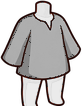
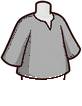
fix(walk): separate bare legs from body_base into legs_bottom slot so bare legs never peek behind armor

Changed region(s): [[0.2439, 0.6792, 0.8049, 1.0]]

diff --git a/packages/studio/src/utils/chibi-pack-loader.ts b/packages/studio/src/utils/chibi-pack-loader.ts
@@ -189,7 +189,7 @@ export async function loadChibiHDPack(basePath = '/assets/chibi-hero'): Promise<
   const shadowFrame = makeFrame('shadow_oval', { x: 0.5, y: 0.5 }, false);
   registerDualFacingPart('shadow', 'oval', '柔光椭圆投影', shadowFrame, shadowFrame, 'none');
 
-  // Body base with chibi sockets + 6-frame bare-leg walk stride
+  // Body base (upper torso/tunic/neck only — legs live cleanly in legs_bottom so bare legs NEVER peek behind armor!)
   const bodySockets: SpriteFrameRef['sockets'] = {
     neck: { x: 0, y: -86 },
     shoulder_front: { x: -24, y: -72 },
@@ -197,14 +197,9 @@ export async function loadChibiHDPack(basePath = '/assets/chibi-hero'): Promise<
     back_mount: { x: -4, y: -76 },
   };
   const bodyFront = makeFrame('body_base_front', { x: 0.5, y: 0.92 }, true, bodySockets);
-  const bodyWalkFrames = makeWalkFrames('body_base_front', { x: 0.5, y: 0.92 }, 16, 8, bodySockets);
-  registerDualFacingPart('body_base', 'chibi_body', 'Q版基础素体', bodyFront, bodyFront, 'mask_ramp', {
-    front: bodyWalkFrames,
-    back: bodyWalkFrames,
-    fps: 8,
-  });
+  registerDualFacingPart('body_base', 'chibi_body', 'Q版上身素体', bodyFront, bodyFront, 'mask_ramp');
 
-  // Legs (6-frame armored stride sequence for both front & back facings!)
+  // Legs (6-frame stride sequences for both armored greaves and bare chibi legs!)
   registerDualFacingPart(
     'legs_bottom',
     'greaves',
@@ -215,6 +210,21 @@ export async function loadChibiHDPack(basePath = '/assets/chibi-hero'): Promise<
     {
       front: makeWalkFrames('legs_greaves_front', { x: 0.5, y: 0.18 }, 18, 10),
       back: makeWalkFrames('legs_greaves_back', { x: 0.5, y: 0.18 }, 18, 10),
+      fps: 8,
+    },
+  );
+  const bareLegsIdle = makeFrame('legs_bare_front', { x: 0.5, y: 0.08 });
+  const bareLegsWalk = makeWalkFrames('legs_bare_front', { x: 0.5, y: 0.08 }, 16, 10);
+  registerDualFacingPart(
+    'legs_bottom',
+    'bare_legs',
+    '素体赤足双腿',
+    bareLegsIdle,
+    bareLegsIdle,
+    'mask_ramp',
+    {
+      front: bareLegsWalk,
+      back: bareLegsWalk,
       fps: 8,
     },
   );

diff --git a/packages/core/src/data/presets.ts b/packages/core/src/data/presets.ts
@@ -246,21 +246,11 @@ export const DEFAULT_ARPG_ANIMATIONS: Record<string, AnimationClip> = {
       {
         slotId: 'body_base',
         keyframes: [
-          { timeMs: 0, y: 0, rotationDeg: -2.5, easing: 'easeInOut' },
-          { timeMs: 188, y: -6, rotationDeg: 0, easing: 'easeInOut' },
-          { timeMs: 375, y: 0, rotationDeg: 2.5, easing: 'easeInOut' },
-          { timeMs: 563, y: -6, rotationDeg: 0, easing: 'easeInOut' },
-          { timeMs: 750, y: 0, rotationDeg: -2.5, easing: 'easeInOut' },
-        ],
-      },
-      {
-        slotId: 'legs_bottom',
-        keyframes: [
-          { timeMs: 0, y: 1, rotationDeg: 2, easing: 'easeInOut' },
-          { timeMs: 188, y: 3, rotationDeg: 0, easing: 'easeInOut' },
-          { timeMs: 375, y: 1, rotationDeg: -2, easing: 'easeInOut' },
-          { timeMs: 563, y: 3, rotationDeg: 0, easing: 'easeInOut' },
-          { timeMs: 750, y: 1, rotationDeg: 2, easing: 'easeInOut' },
+          { timeMs: 0, y: 0, rotationDeg: -2.2, easing: 'easeInOut' },
+          { timeMs: 188, y: -5, rotationDeg: 0, easing: 'easeInOut' },
+          { timeMs: 375, y: 0, rotationDeg: 2.2, easing: 'easeInOut' },
+          { timeMs: 563, y: -5, rotationDeg: 0, easing: 'easeInOut' },
+          { timeMs: 750, y: 0, rotationDeg: -2.2, easing: 'easeInOut' },
         ],
       },
       {
